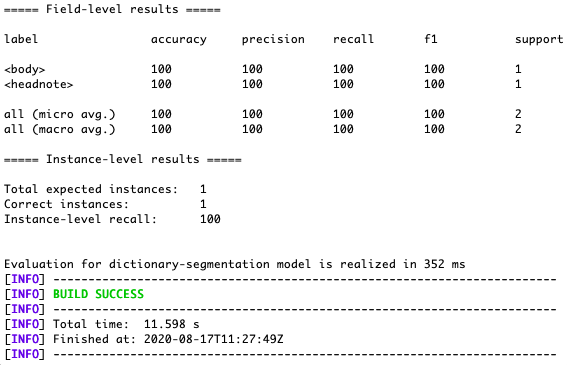
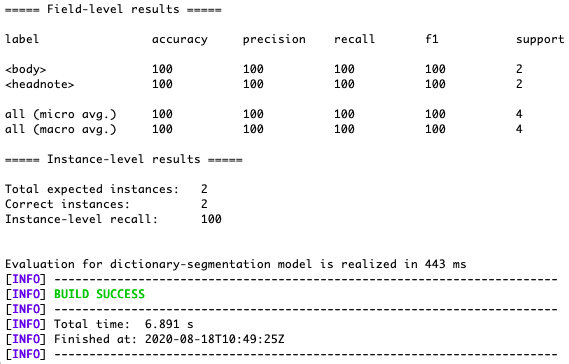
Updated the README

diff --git a/GROBID_LAC_LAV/README.md b/GROBID_LAC_LAV/README.md
@@ -30,9 +30,15 @@ We have annotated the catalogues on 5 levels:
 
 #### 1. With the typographical information
 
-Current results after training the model on the `LAC` catalogues (the `LAV` catalogues' training data are to be added):
+Current results after training the model on the `LAC` catalogues, based on five levels (the `LAV` catalogues' training data are to be added):
 
-![LAC_dictionary-segmentation](img/LAC_dictionary-segmentation-all.jpg)
+a) `dictionary-segmentation`:
+
+![LAC_dictionary-segmentation](img/LAC_dictionary-segmentation.jpg)
+
+b) `dictionary-body-segmentation`:
+
+![LAC_dictionary-body-segmentation](/Users/ljudmilapetkovic/Downloads/OCRcat/GROBID_LAC_LAV/img/LAC_dictionary-body-segmentation.jpg)
 
 #### 2. Without the typographical information
 
